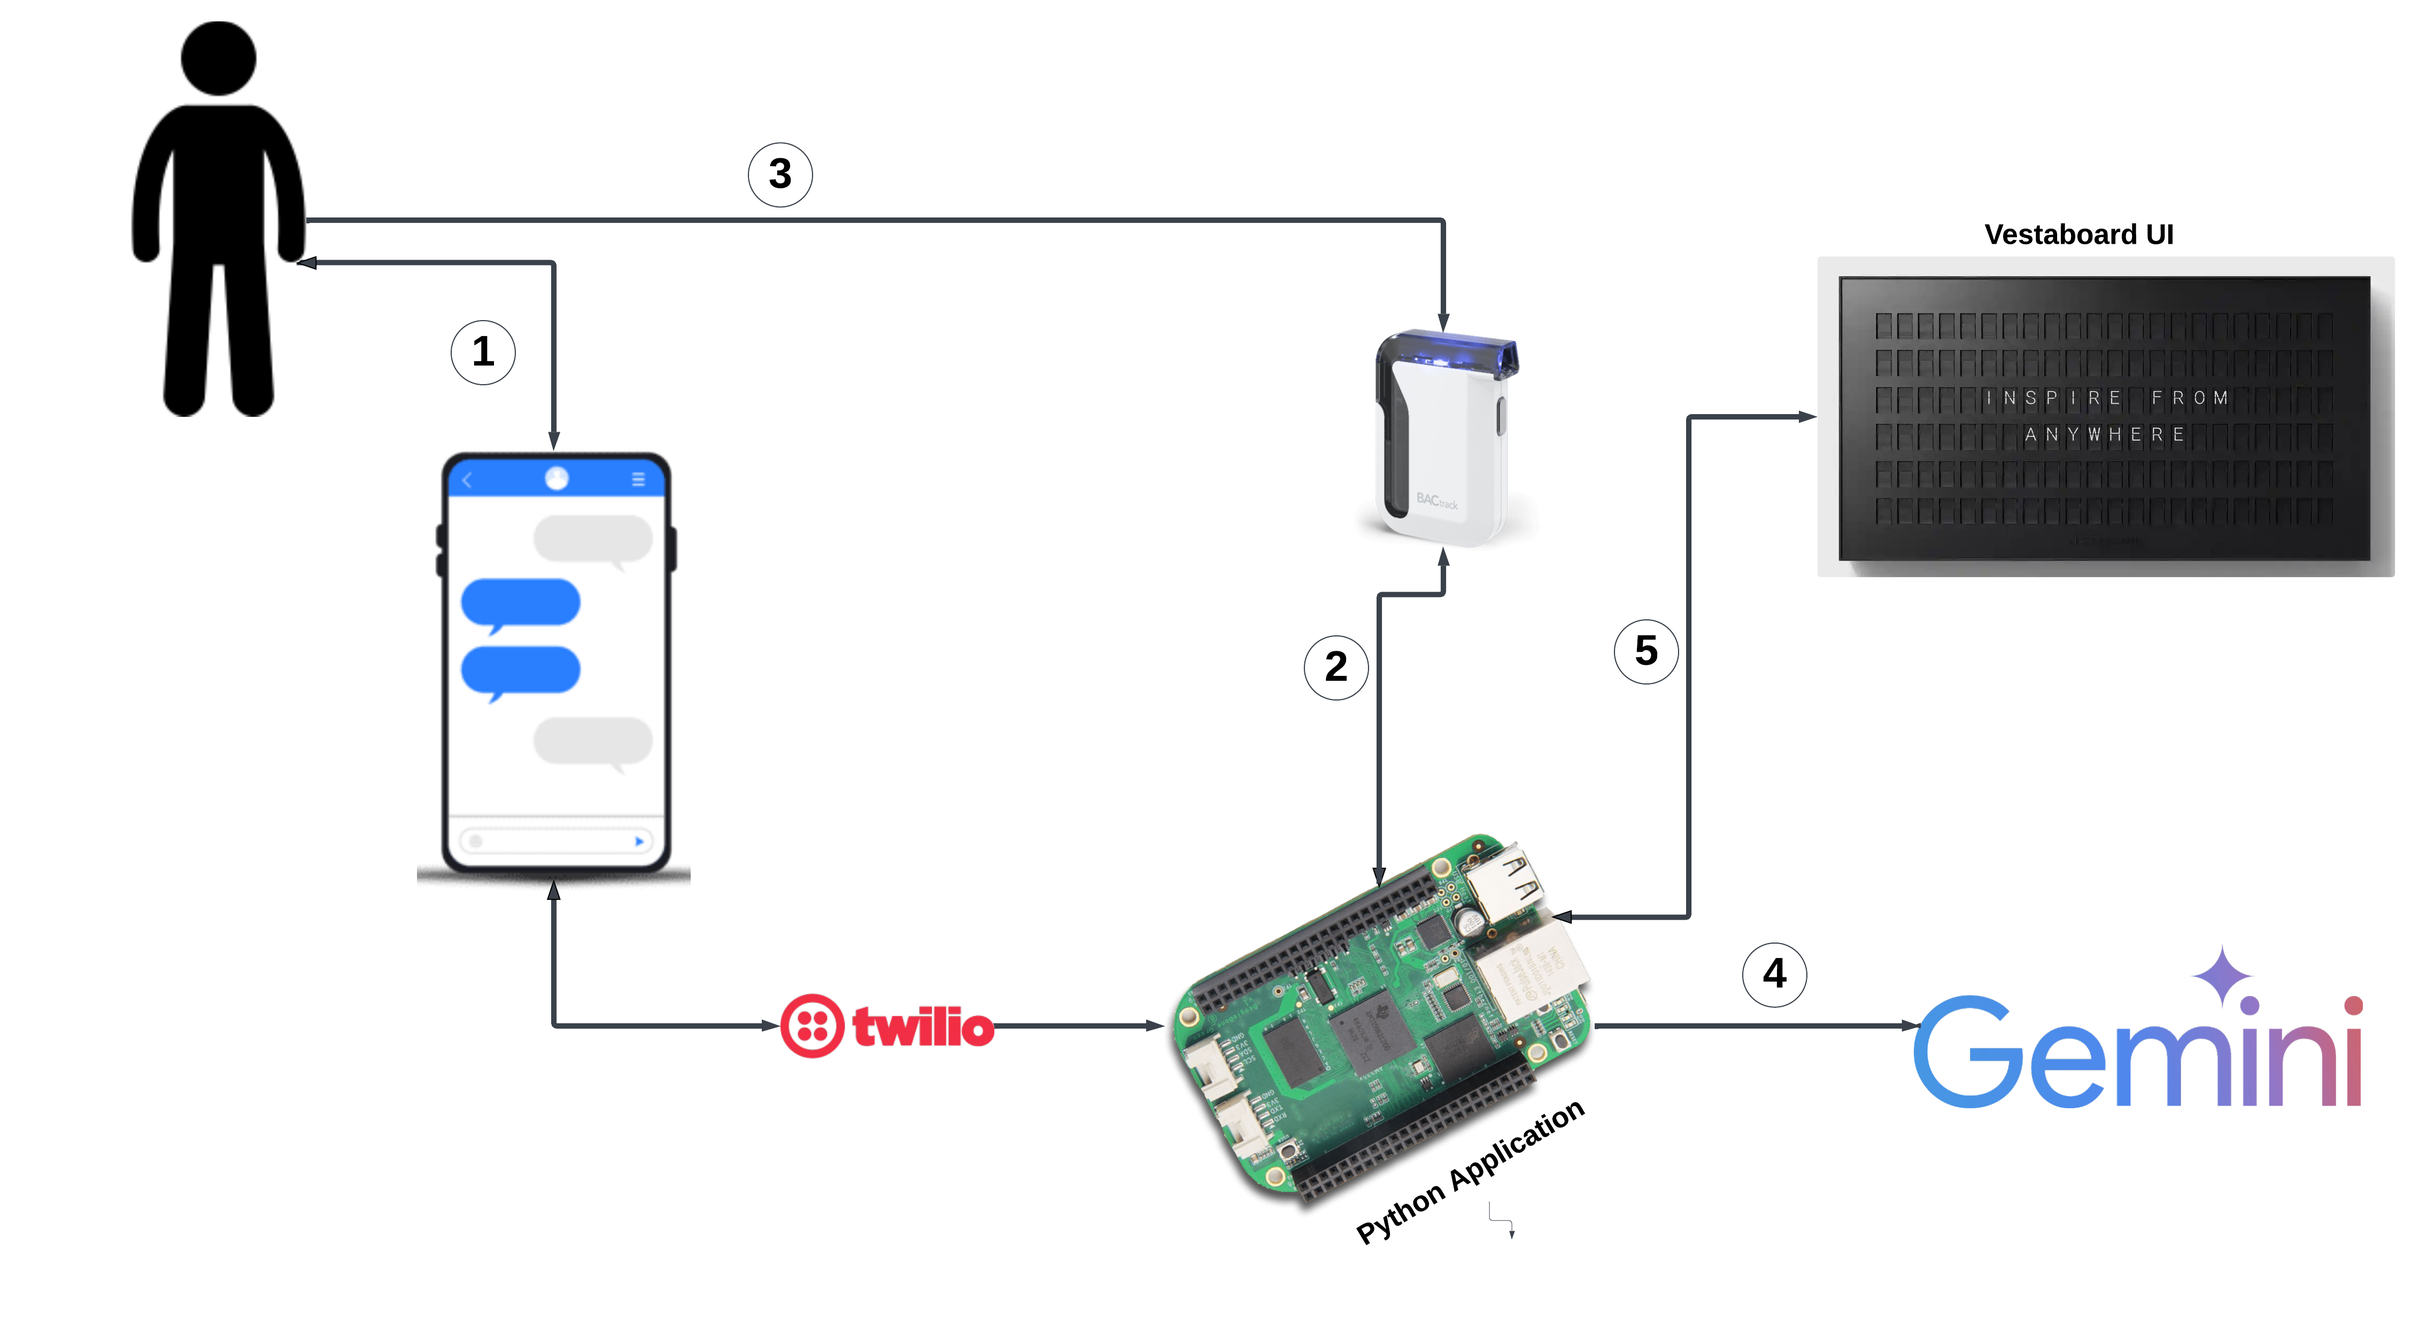
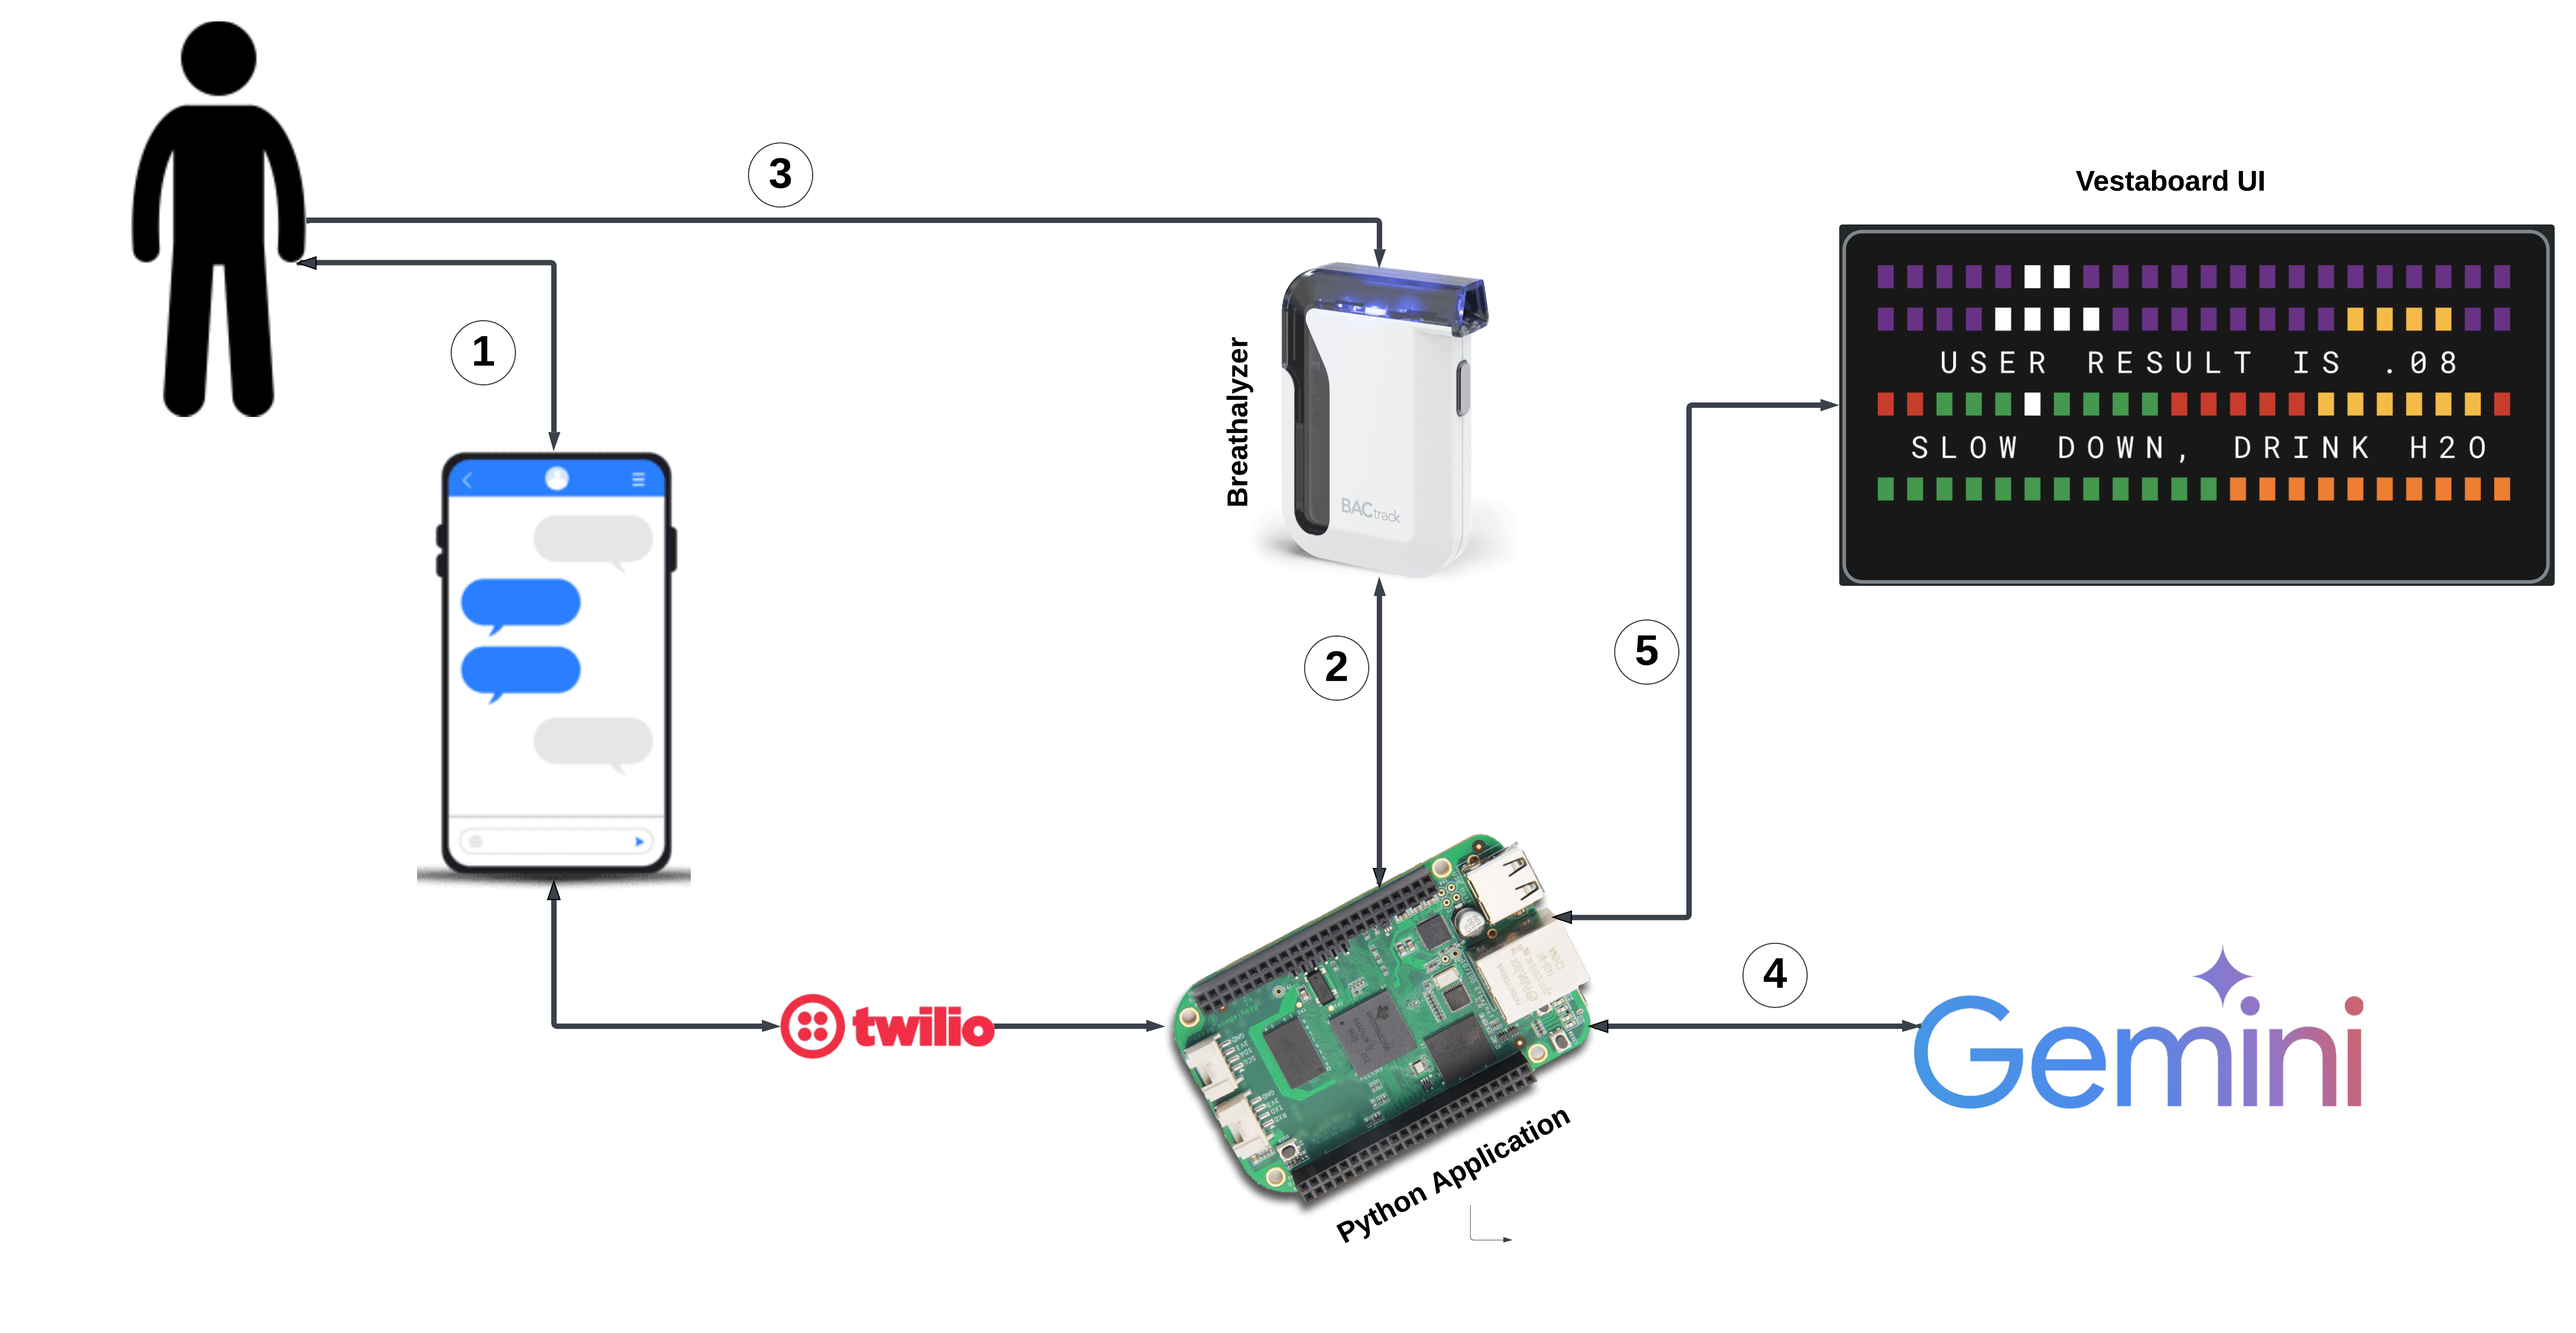
Updates to README, and diagram architecture

diff --git a/README.md b/README.md
@@ -1,78 +1,57 @@
-### Overview:
+### Overview
 
-    The Breathalyzer Project is a Python-based application designed to integrate with BACtrack Breathalyzer devices, 
-    allowing users to measure their Blood Alcohol Concentration (BAC) and receive personalized feedback based on their 
-    test results. This project takes a responsible, advisorial approach to drinking habits, providing users with guidance 
-    regarding their BAC levels.
+The **Breathalyzer Project** is a Python-based application designed to integrate with BACtrack Breathalyzer devices, allowing users to measure their Blood Alcohol Concentration (BAC) and receive personalized feedback based on their test results. This project takes a responsible, advisorial approach to drinking habits, providing users with guidance regarding their BAC levels.
 
-    Unlike traditional party games, this system focuses on health and safety by advising users to stop drinking if their 
-    BAC exceeds safe limits or offering neutral, factual information about their drinking behavior. The application integrates 
-    with hardware to automate BAC testing, providing real-time results and feedback through a user-friendly interface, 
-    including a Vestaboard display
+Unlike traditional party games, this system focuses on health and safety by advising users to stop drinking if their BAC exceeds safe limits or offering neutral, factual information about their drinking behavior. The game is meant to be used at a small social event like a party or get-together, where the host has at a minimum a BACtrack breathalyzer. 
+
+The application integrates with hardware to automate BAC testing, providing real-time results and feedback through a user-friendly interface, including a **Vestaboard** display.
+
+---
 
 ### Architecture
 
-
 ![](images/Vestaboard_Architecture.png?raw=true)
 
-    1. User onboards to the game, by sending a provided password to a provided number and accepting terms and conditions.
-       Message sending/receiving facilitation between phone number and Python Application is done by Twilio. 
-       Once onboarded and if the breathalyzer is not being used, the user can initiate a test
+1. **User Onboarding**: The user onboards to the game by sending a provided password to a given number and accepting terms and conditions. Message sending/receiving facilitation between phone number and Python Application is done by **Twilio**. Once onboarded and if the breathalyzer is not being used, the user can initiate a test.
 
-    2. Python application running on BeagleBone Green IoT 'mini-computer' notifies the breathalyzer to start warming up
-       and receives a response from the user once the device is ready. Python application, then sends a user a text
-       message to begin blowing on breathalyzer.
+2. **BeagleBone Green IoT Integration**: The Python application running on a **BeagleBone Green IoT 'mini-computer'** notifies the breathalyzer to start warming up and receives a response from the user once the device is ready. The BeagleBone Green runs on an **ARMv7 Cortex-A8 processor**, with **512MB RAM** and **4GB Flash**, making the device computationally constrained. 
 
-    3. User receives text message to begin breathalyzer test, and starts blowing on breathalyzer. The user hears a click
-       on the device, and also receives a message for when they can stop blowing, and transition to waiting for test results
-       to process.
+3. **User Test Initiation**: The Python application sends a text message to the user to begin blowing on the breathalyzer. The user receives a message and starts blowing. Upon hearing a click from the device, they know they can stop blowing and wait for the test results.
 
-    4. Python application receives results from breathalyzer, and sends to Google Gemini language model, to come up with 
-       an informative/warning fact to display relating to user's test results.
+4. **Test Result Processing**: The Python application receives results from the breathalyzer and sends them to **Google Gemini** language model to generate an informative or warning message related to the user's BAC level.
 
-    5. Python application receives message to display from Gemini model, and sends a display request to Vestaboard UI
-       to display the same message.
-    
+5. **Display Message on Vestaboard**: The Python application receives a message from the Gemini model and sends a display request to the **Vestaboard UI**, showing the message.
 
-### Directory Structure:
-    
-    Note that the entire project utilizes 'poetry' rather than 'pip' for project dependency and virtual envrionment management.
-    Additionally a Makefile is used to start the application.
+---
 
-    1. party_client/bactrack_stats.py 
-       Class to handle pulling a histogram of all BacTrack user's usage on the given day, from live BacTrack APIs.
+### Directory Structure
 
-    2. party_client/breathalyzer_client.py
-       Handles all interactions with the breathalyzer. This includes handling device attributes such as battery level, 
-       device warmup following user initation of a test, user test semantics, and crunching and returning the user's test
-       results. Communication between the Python applciation and the Breathalyzer device is done using Bluetooth (BLE) protocol.
+Note that the entire project utilizes **'poetry'** rather than **'pip'** for project dependency and virtual environment management. Additionally, a **Makefile** is used to start the application.
 
-    3. party_client/flask_server.py
-       Entry point for the Python application, which actually starts the Flask server which allows a number to send requests
-       and receives responses from our game. An ngrok reverse proxy is used, to facilitate forwarding of requests from Twilio
-       to our Python application. Startup of this server, is handled by Makefile.
+1. **party_client/bactrack_stats.py**  
+   Handles pulling a histogram of all BACtrack users' usage on a given day from live BACtrack APIs.
 
-    4. party_client/genai_client.py
-       GenAI integration with Google Gemini hosted models, to fetch a fun/informative fact on user, following a user's
-       BAC test, and considering their test history.
+2. **party_client/breathalyzer_client.py**  
+   Manages all interactions with the breathalyzer. Includes handling device attributes such as battery level, warmup following test initiation, and returning test results. Communication is done via Bluetooth (BLE) protocol.
 
-    5. party_client/logic.py
-       Contains the central orchestrator/logic behind user text messages sent to the Python Application. Items related to 
-       onboarding a new user to the platform, ensuring they agree to T&C, and starting and viewing test results are handled, 
-       in addition to vestaboard leaderboard and display management, and complex error handling. Additionally, admins have
-       special permissions for doing things like broadcasting a message to all users, or ending the game.
+3. **party_client/flask_server.py**  
+   Entry point for the Python application, starting the Flask server which allows users to send requests and receive responses. **Ngrok** reverse proxy is used for forwarding requests from Twilio to the Python application.
 
-    6. party_client/user.py
-       File which handles the game state, consisting of all the users onboarded to the game, along with their status in the 
-       game onboarding flow, and their BAC test history. This state is constantly persisted to a JSON backup file, which
-       is automatically retrieved should the application be restarted should it crash.
+4. **party_client/genai_client.py**  
+   Handles integration with **Google Gemini** hosted models to fetch a fun/informative fact based on the user's BAC test and their test history.
 
-    7. party_client/vestaboard_client.py
-       Class which handles all semantics of writing data to the Vestabord UI display. Handles connection to the Vestaboard UI 
-       display, and utilizes a Vestabord provided VBML API to format a message into a Vestabord friendly byte string, after
-       which Vestabord Local Read APIs are used to write to the board.
+5. **party_client/logic.py**  
+   Contains the central orchestrator behind user text messages, managing onboarding, T&C agreement, test initiation, leaderboard display, and error handling. Admins can broadcast messages or end the game.
 
-### References: 
+6. **party_client/user.py**  
+   Manages the game state, including all onboarded users, their status, and BAC test history. The state is persisted in a JSON file, which is reloaded if the application crashes.
+
+7. **party_client/vestaboard_client.py**  
+   Manages the semantics of writing data to the **Vestaboard UI display**, using the **VBML API** to format messages into byte strings and then using **Vestaboard Local Read APIs** to update the board.
+
+---
+
+### References
 
 1. [Vestaboard UI Overview](https://www.vestaboard.com/)  
    Overview of the Vestaboard display UI.
@@ -84,10 +63,10 @@
    BAC monitoring breathalyzer device.
 
 4. [BACtrack SDK Documentation](https://developer.bactrack.com/breathalyzer_sdk/documentation)  
-   Breathalyzer Mobile App SDK, which was used to develop a custom implementation for communicating with the Breathalyzer via Bluetooth.
+   Breathalyzer Mobile App SDK, used for developing custom communication implementations via Bluetooth.
 
 5. [Twilio SMS API](https://www.twilio.com/en-us/messaging/channels/sms)  
-   Twilio products and APIs, used to facilitate requests/responses between a mobile number and Python application.
+   Twilio products and APIs used for facilitating requests/responses between a mobile number and Python application.
 
 6. [BeagleBone Green Wiki](https://wiki.seeedstudio.com/BeagleBone_Green/)  
-   BeagleBone Green IoT device, which the Python application runs on.
+   BeagleBone Green IoT device, where the Python application runs.
